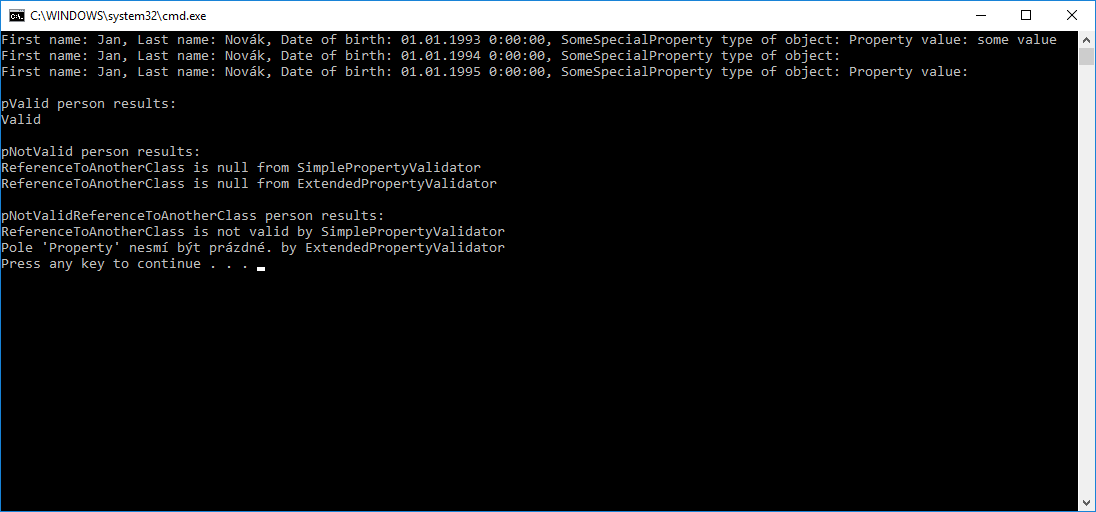
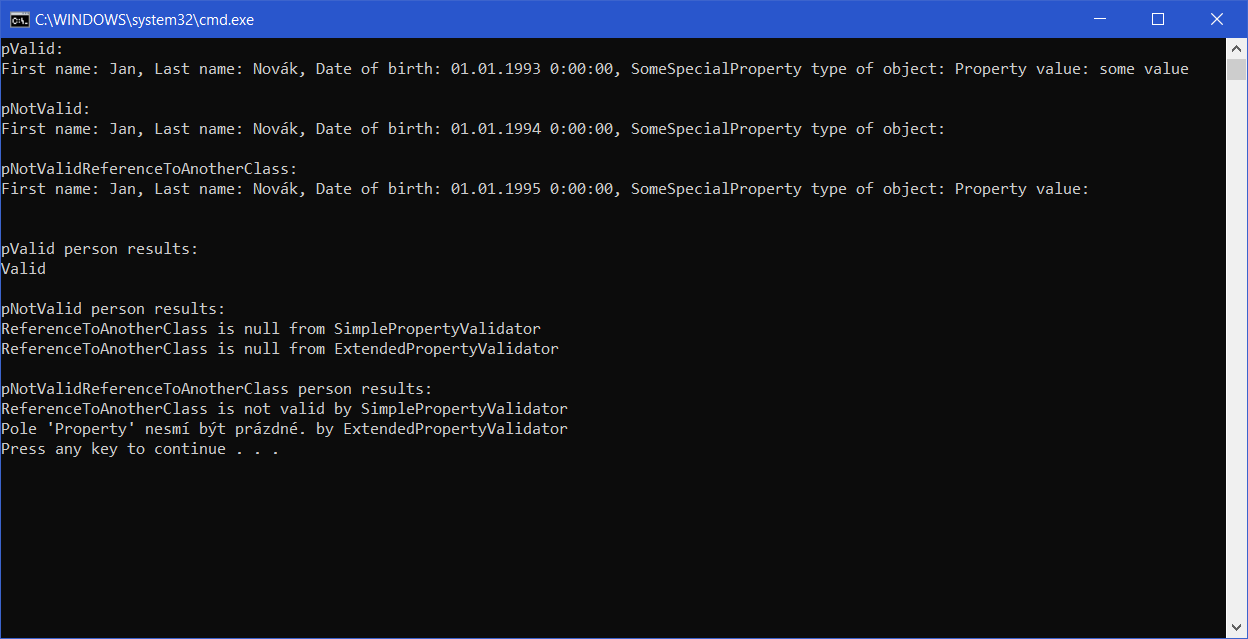
Added Builder pattern example

Changed region(s): [[0.0, 0.0, 1.0, 1.0], [0.0, 0.5938, 0.4653, 0.7188]]

diff --git a/Utils.FluentValidation/Program.cs b/Utils.FluentValidation/Program.cs
@@ -3,51 +3,32 @@ using System.Diagnostics;
 using System.Linq;
 using FluentValidation.Results;
 using Utils.FluentValidation.Entity;
+using Utils.FluentValidation.FluentStyleExample;
 using Utils.FluentValidation.Validator;
 
 namespace Utils.FluentValidation
 {
     class Program
     {
+        static Person pValid;
+        static Person pNotValid;
+        static Person pNotValidReferenceToAnotherClass;
         static void Main(string[] args)
         {
-            // Valid Person
-            Person pValid = new Person()
-            {
-                FirstName = "Jan",
-                LastName = "Novák",
-                DateOfBirth = new DateTime(1993, 1, 1),
-                ReferenceToAnotherClass = new SpecialProperty()
-                {
-                    Property = "some value"
-                }
-            };
-            // Not valid Person because of null in ReferenceToAnotherClass
-            Person pNotValid = new Person()
-            {
-                FirstName = "Jan",
-                LastName = "Novák",
-                DateOfBirth = new DateTime(1994, 1, 1),
-                ReferenceToAnotherClass = null // null is against Validator rules
-            };
-
-            // Not valid Person because of empty value in ReferenceToAnotherClass
-            Person pNotValidReferenceToAnotherClass = new Person()
-            {
-                FirstName = "Jan",
-                LastName = "Novák",
-                DateOfBirth = new DateTime(1995, 1, 1),
-                ReferenceToAnotherClass = new SpecialProperty()
-                {
-                    Property = ""
-                }
-            };
+            CreatePersonsViaBuilder();
 
             // Print persons
+            Console.WriteLine("pValid:");
             Console.WriteLine(pValid);
-            Console.WriteLine(pNotValid);
-            Console.WriteLine(pNotValidReferenceToAnotherClass);
+            Console.WriteLine();
 
+            Console.WriteLine("pNotValid:");
+            Console.WriteLine(pNotValid);
+            Console.WriteLine();
+
+            Console.WriteLine("pNotValidReferenceToAnotherClass:");
+            Console.WriteLine(pNotValidReferenceToAnotherClass);
+            Console.WriteLine();
             // Create instance of validator
             PersonValidator personValidator = new PersonValidator();
 
@@ -88,6 +69,88 @@ namespace Utils.FluentValidation
             {
                 results.Errors.ToList().ForEach(i => Console.WriteLine(i.ToString()));
             }
+        }
+        /// <summary>
+        /// Creates persons via basic Builder pattern
+        /// </summary>
+        static void CreatePersonsViaBuilder()
+        {
+            // Valid Person
+            PersonBuilder pValidPersonBuilder = new PersonBuilder()
+                .WithFirstName("Jan")
+                .WithLastName("Novák")
+                .WithDateOfBirth(new DateTime(1993, 1, 1))
+                .WithEmail("john.doe@email.com")
+                .WithReferencedClass(new ReferencedClassFromPerson()
+                {
+                    Property = "some value"
+                });
+
+            pValid = pValidPersonBuilder.Build();
+
+            // Not valid Person because of null in ReferenceToAnotherClass
+            PersonBuilder pNotValidPersonBuilder = new PersonBuilder()
+                .WithFirstName("Jan")
+                .WithLastName("Novák")
+                .WithDateOfBirth(new DateTime(1993, 1, 1))
+                .WithEmail("john.doe@email.com")
+                .WithReferencedClass(null);
+
+            pNotValid = pNotValidPersonBuilder.Build();
+
+            // Not valid Person because of empty value in ReferenceToAnotherClass
+            PersonBuilder pNotValidReferenceToAnotherClassBuilder = new PersonBuilder()
+                    .WithFirstName("Jan")
+                    .WithLastName("Novák")
+                    .WithDateOfBirth(new DateTime(1993, 1, 1))
+                    .WithEmail("john.doe@email.com")
+                    .WithReferencedClass(new ReferencedClassFromPerson()
+                    {
+                        Property = "some value"
+                    });
+
+            pNotValidReferenceToAnotherClass = pNotValidReferenceToAnotherClassBuilder.Build();
+        }
+
+        /// <summary>
+        /// Creates persons via standard Object Initializer method
+        /// </summary>
+        static void CreatePersonsViaObjectInitializer()
+        {
+            // Valid Person
+            pValid = new Person()
+            {
+                FirstName = "Jan",
+                LastName = "Novák",
+                Email = "john.doe@email.com",
+                DateOfBirth = new DateTime(1993, 1, 1),
+                ReferenceToAnotherClass = new ReferencedClassFromPerson()
+                {
+                    Property = "some value"
+                }
+            };
+            // Not valid Person because of null in ReferenceToAnotherClass
+            pNotValid = new Person()
+            {
+                FirstName = "Jan",
+                LastName = "Novák",
+                Email = "john.doe@email.com",
+                DateOfBirth = new DateTime(1994, 1, 1),
+                ReferenceToAnotherClass = null // null is against Validator rules
+            };
+
+            // Not valid Person because of empty value in ReferenceToAnotherClass
+            pNotValidReferenceToAnotherClass = new Person()
+            {
+                FirstName = "Jan",
+                LastName = "Novák",
+                Email = "john.doe@email.com",
+                DateOfBirth = new DateTime(1995, 1, 1),
+                ReferenceToAnotherClass = new ReferencedClassFromPerson()
+                {
+                    Property = ""
+                }
+            };
         }
     }
 }

diff --git a/Utils.FluentValidation/Validator/PersonValidator.cs b/Utils.FluentValidation/Validator/PersonValidator.cs
@@ -18,12 +18,17 @@ namespace Utils.FluentValidation.Validator
         public PersonValidator()
         {
             RuleFor(person => person.FirstName)
-                .NotEmpty()
-                .NotNull();
+                .NotEmpty();
 
             RuleFor(person => person.LastName)
+                .NotEmpty()
                 .NotEqual(person => person.FirstName)
                 .WithMessage("First name and last name could not be same");
+
+            RuleFor(person => person.Email)
+                .NotEmpty()
+                .EmailAddress()
+                .WithMessage("Email is not valid");
 
             RuleFor(person => person.DateOfBirth)
                 .NotEqual(DateTime.Now)
@@ -59,10 +64,10 @@ namespace Utils.FluentValidation.Validator
         /// </summary>
         /// <param name="SpecialProperty">Instance of referenced class</param>
         /// <returns>ValidationResult</returns>
-        private ValidationResult ExtendedPropertyValidator(SpecialProperty SpecialProperty)
+        private ValidationResult ExtendedPropertyValidator(ReferencedClassFromPerson SpecialProperty)
         {
             // Validator for given class
-            SpecialPropertyValidator specialPropertyValidator = new SpecialPropertyValidator();
+            ReferencedClassFromPersonValidator specialPropertyValidator = new ReferencedClassFromPersonValidator();
             return specialPropertyValidator.Validate(SpecialProperty);
         }
 
@@ -72,10 +77,10 @@ namespace Utils.FluentValidation.Validator
         /// </summary>
         /// <param name="SpecialProperty">Instance of referenced class</param>
         /// <returns>True if referenced class is valid by its own validator</returns>
-        private bool SimplePropertyValidator(SpecialProperty SpecialProperty)
+        private bool SimplePropertyValidator(ReferencedClassFromPerson SpecialProperty)
         {
             // Validator for given class
-            SpecialPropertyValidator specialPropertyValidator = new SpecialPropertyValidator();
+            ReferencedClassFromPersonValidator specialPropertyValidator = new ReferencedClassFromPersonValidator();
             return specialPropertyValidator.Validate(SpecialProperty).IsValid;
         }
 

diff --git a/Utils.FluentValidation/BuilderPattern/PersonBuilder.cs b/Utils.FluentValidation/BuilderPattern/PersonBuilder.cs
@@ -1,0 +1,59 @@
+using System;
+using System.Collections.Generic;
+using System.Text;
+using Utils.FluentValidation.Entity;
+
+namespace Utils.FluentValidation.FluentStyleExample
+{
+    class PersonBuilder
+    {
+        String email;
+        String firstName;
+        String lastName;
+        DateTime dateOfBirth = new DateTime();
+        ReferencedClassFromPerson referencedClassFromPerson;
+
+        public PersonBuilder WithEmail(string email)
+        {
+            this.email = email;
+            return this;
+        }
+
+        public PersonBuilder WithFirstName(string firstName)
+        {
+            this.firstName = firstName;
+            return this;
+        }
+
+        public PersonBuilder WithLastName(string lastName)
+        {
+            this.lastName = lastName;
+            return this;
+        }
+
+        public PersonBuilder WithDateOfBirth(DateTime dateOfBirth)
+        {
+            this.dateOfBirth = dateOfBirth;
+            return this;
+        }
+
+        public PersonBuilder WithReferencedClass(ReferencedClassFromPerson reference)
+        {
+            this.referencedClassFromPerson = reference;
+            return this;
+        }
+
+        public Person Build()
+        {
+            return new Person()
+            {
+                Email = email,
+                FirstName = firstName,
+                LastName = lastName,
+                DateOfBirth = dateOfBirth,
+                ReferenceToAnotherClass = referencedClassFromPerson
+            };
+        }
+
+    }
+}

diff --git a/Utils.FluentValidation/Entity/Person.cs b/Utils.FluentValidation/Entity/Person.cs
@@ -8,12 +8,14 @@ namespace Utils.FluentValidation.Entity
     {
         public string FirstName { get; set; }
         public string LastName { get; set; }
+        public string Email { get; set; }
         public DateTime DateOfBirth { get; set; }
-        public SpecialProperty ReferenceToAnotherClass { get; set; }
+ 
+        public ReferencedClassFromPerson ReferenceToAnotherClass { get; set; }
 
         public override string ToString()
         {
-            return $"First name: {FirstName}, Last name: {LastName}, Date of birth: {DateOfBirth}, SomeSpecialProperty type of object: {ReferenceToAnotherClass}";
+            return $"First name: {FirstName}, Last name: {LastName}, Email: {Email}, Date of birth: {DateOfBirth}, SomeSpecialProperty type of object: {ReferenceToAnotherClass}";
         }
     }
 }

diff --git a/Utils.FluentValidation/Validator/ReferencedClassFromPersonValidator.cs b/Utils.FluentValidation/Validator/ReferencedClassFromPersonValidator.cs
@@ -1,0 +1,21 @@
+using FluentValidation;
+using System;
+using System.Collections.Generic;
+using System.Text;
+using Utils.FluentValidation.Entity;
+
+namespace Utils.FluentValidation
+{
+    /// <summary>
+    /// Validator created for Referenced Class to validate its property
+    /// </summary>
+    class ReferencedClassFromPersonValidator : AbstractValidator<ReferencedClassFromPerson>
+    {
+        public ReferencedClassFromPersonValidator()
+        {
+            RuleFor(referencedClass => referencedClass.Property)
+                .NotEmpty()
+                .NotNull();
+        }
+    }
+}

diff --git a/Utils.FluentValidation/Entity/ReferencedClassFromPerson.cs b/Utils.FluentValidation/Entity/ReferencedClassFromPerson.cs
@@ -4,7 +4,7 @@ using System.Text;
 
 namespace Utils.FluentValidation.Entity
 {
-    class SpecialProperty
+    class ReferencedClassFromPerson
     {
         public string Property { get; set; }
 
